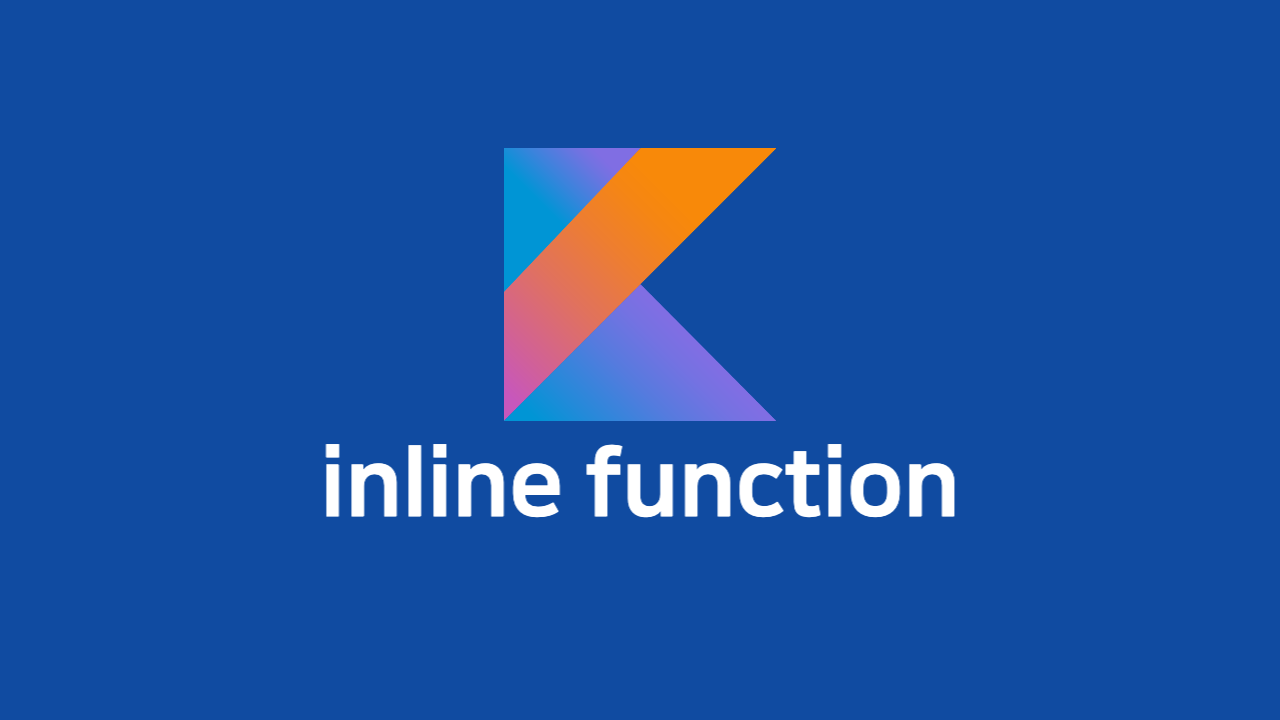
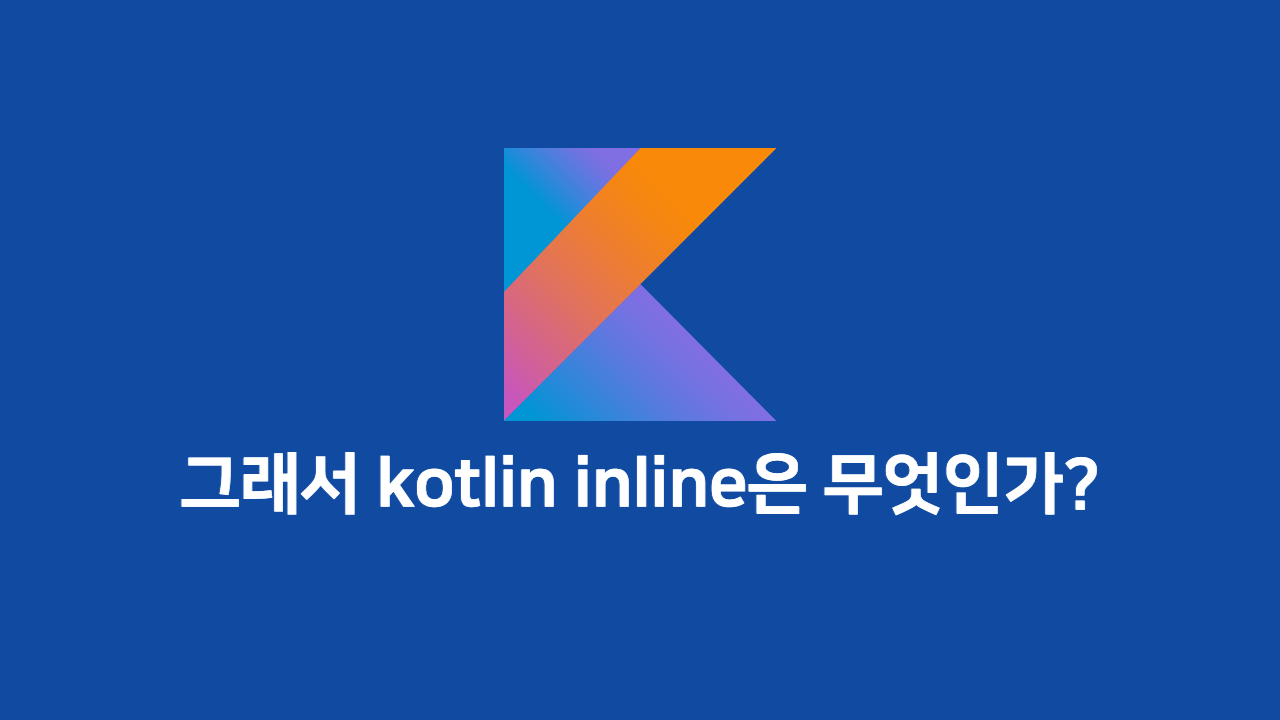
post(img): 이미지 변경

Changed region(s): [[0.125, 0.6111, 0.875, 0.7333]]

diff --git a/_posts/2023-01-16-kotlin-vs-java.md b/_posts/2023-01-16-kotlin-vs-java.md
@@ -5,7 +5,7 @@ categories: kotlin
 tags: [kotlin, java]
 ---
 
-![kotlin vs java]({{site.url}}/assets/images/posts/003.png )
+![kotlin vs java]({{site.url}}/assets/images/posts/kotlin-vs-java-01.png )
 
 kotlin으로 프로젝트를 진행한지 어느덧 1년 정도가 되었다. 하지만 한번도 java와 비교하여 kotlin의 장점을 깊이 생각해본 적은 없는 것 같다. java와 비교하여 현재 kotlin을 선택한 이유를 얘기해보고자 한다. 참고로 언어의 기본적인 문법은 다루지 않는다.
 

diff --git a/_posts/2023-01-28-kotlin-data-class.md b/_posts/2023-01-28-kotlin-data-class.md
@@ -5,7 +5,7 @@ categories: kotlin
 tags: [kotlin, data class]
 ---
 
-![kotlin vs java]({{site.url}}/assets/images/posts/001.png )
+![kotlin vs java]({{site.url}}/assets/images/posts/kotlin-data-class-01.png )
 
 ## 1. Data class
 java의 lombok도 편하지만 kotlin data class는 기본적인 메소드들을 만들기 진짜 세상 편하다. 하지만 상속을 할때에는 꼭 유의해야하는 사항이 있다. 차근차근 알아보자.

diff --git a/_posts/2023-01-23-kotlin-inline.md b/_posts/2023-01-23-kotlin-inline.md
@@ -5,7 +5,7 @@ categories: kotlin
 tags: [kotlin, java, inline]
 ---
 
-![kotlin inline]({{site.url}}/assets/images/posts/002.png )
+![kotlin inline]({{site.url}}/assets/images/posts/kotlin-inline-01.png )
 
 ## 1. inline
 kotlin 함수에 붙는 `inline` 키워드는 말 그대로 호출되는 특정 코드 line 사이에 특정 inline 키워드가 붙은 함수의 코드를 넣을(in) 수 있도록 지원하는 키워드이다.
